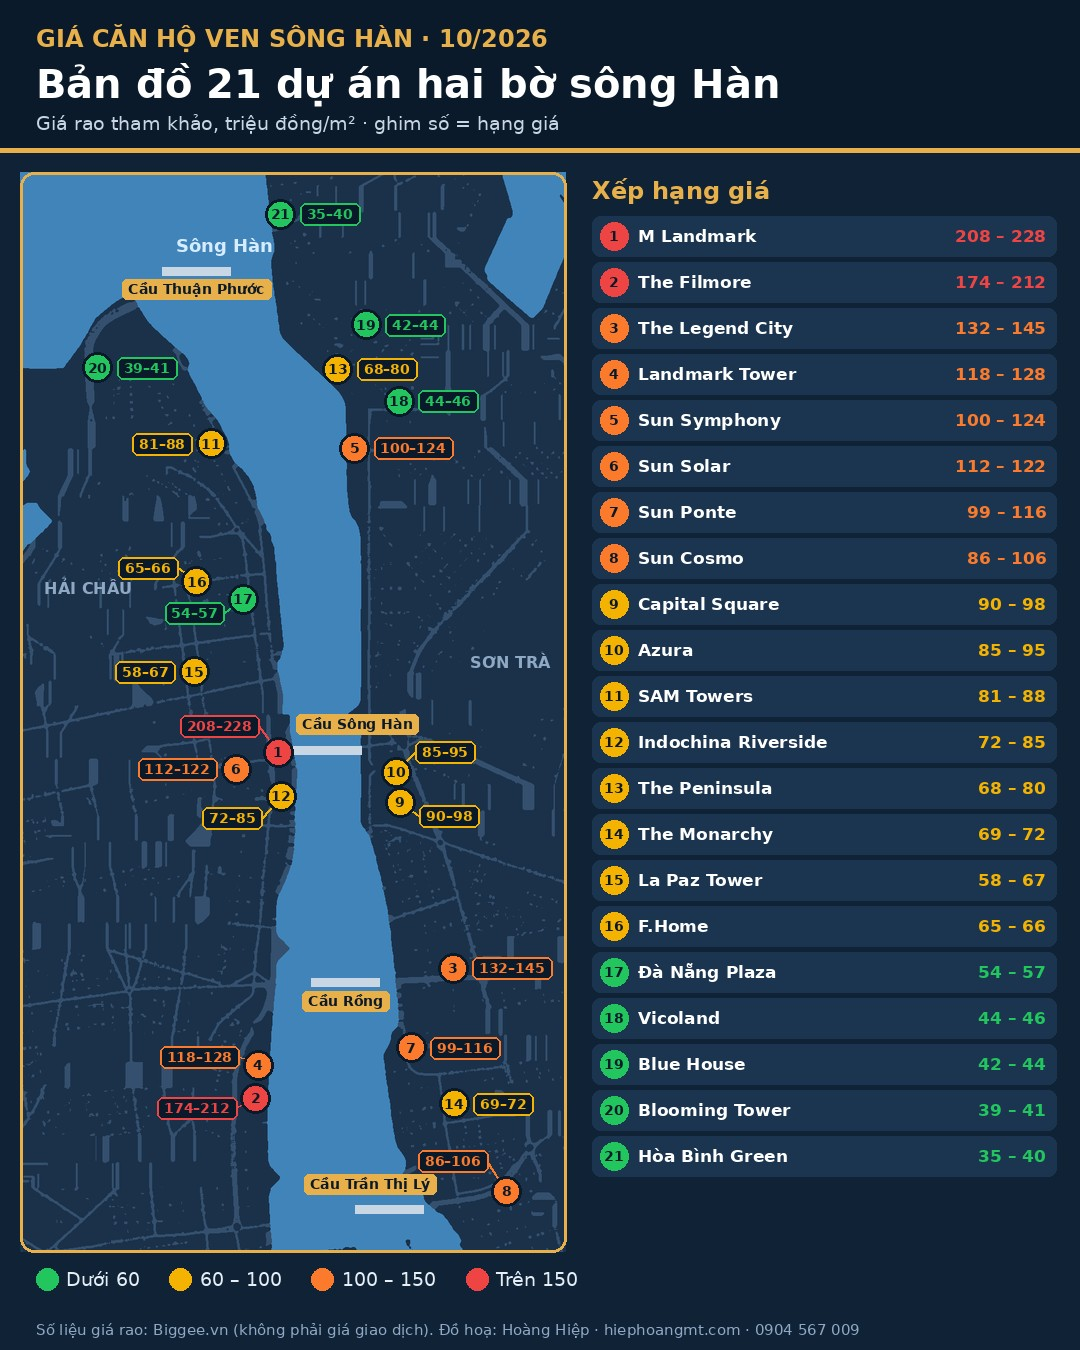
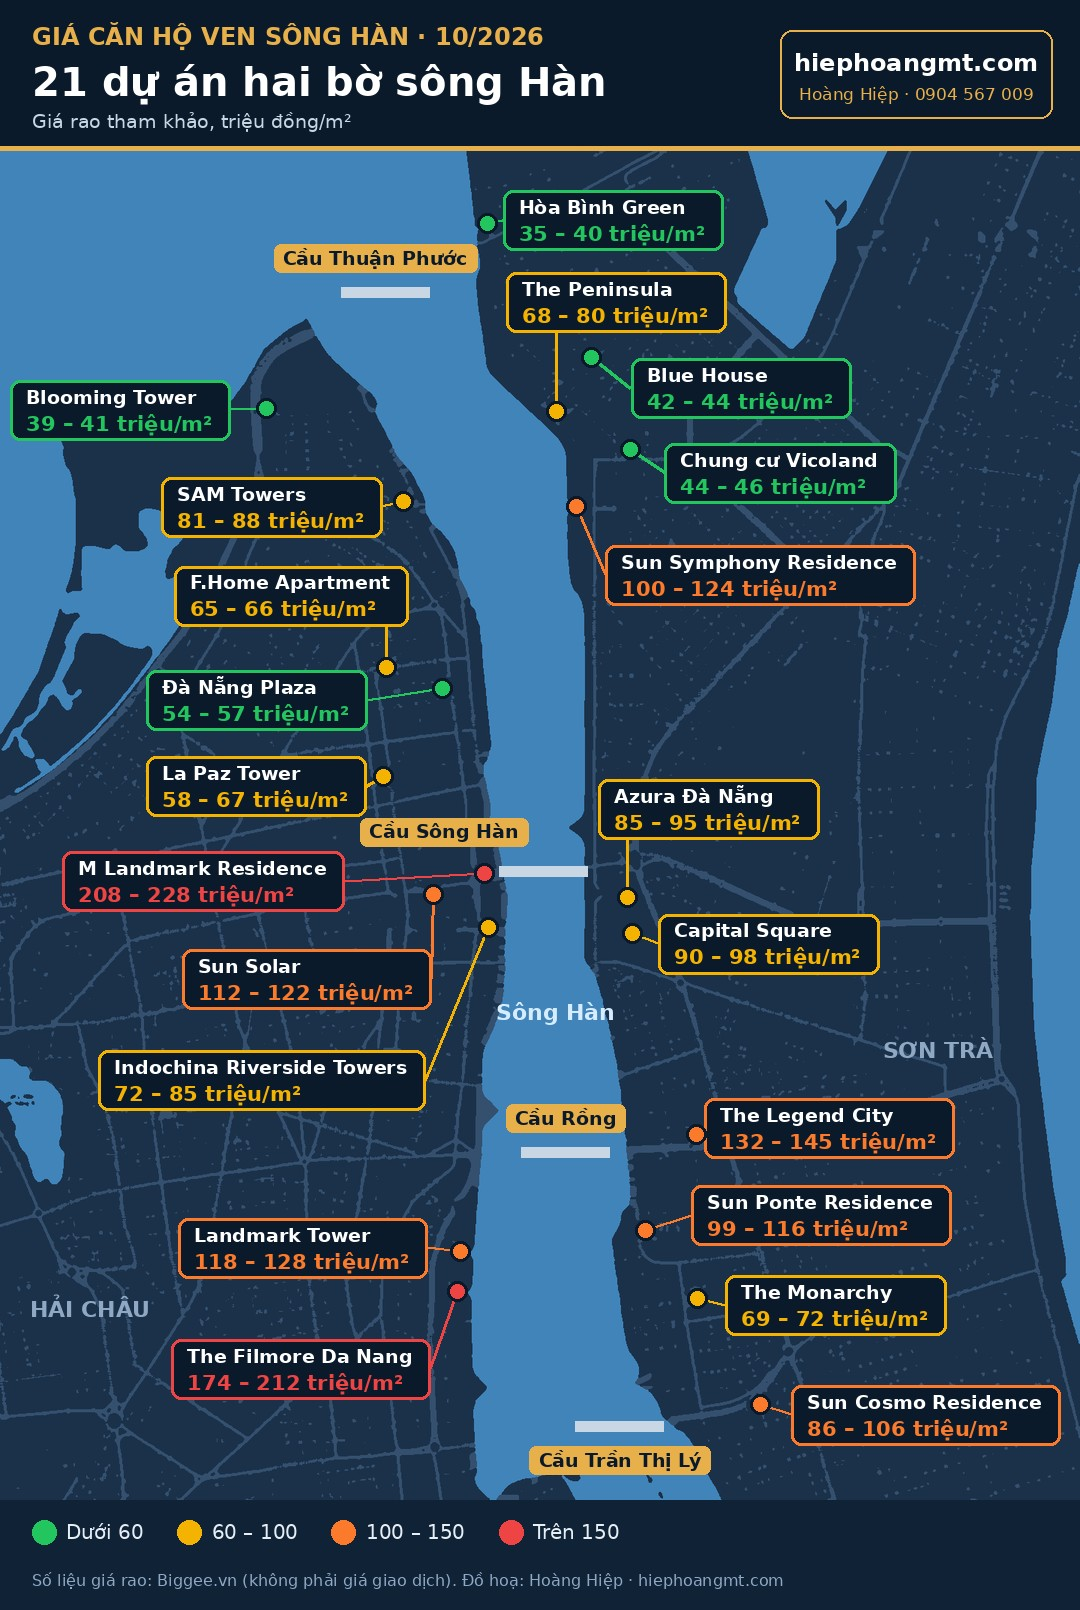
Bản đồ giá căn hộ sông Hàn kiểu ảnh mẫu: tên + giá trên bản đồ, nền navy; thay ảnh trong bài (plugin 2.20.33)
Claude-Session: https://claude.ai/code/session_011HGb6VAzLiwbq5KWLxGuh9

diff --git a/wordpress/bai-viet/gia-can-ho-song-han-ban-do.py b/wordpress/bai-viet/gia-can-ho-song-han-ban-do.py
@@ -36,75 +36,66 @@ cls = out
 PAL = np.array([(64, 132, 186), (27, 49, 74), (52, 80, 110)], np.uint8)  # nước, đất, đường – tông navy
 base = Image.fromarray(PAL[cls])
 
-# vùng cắt quanh sông Hàn
-CX0, CY0, CX1, CY1 = 230, 30, 1110, 1770
-mapimg = base.crop((CX0, CY0, CX1, CY1))
-MH = 1080; s = MH / (CY1 - CY0); MW = round((CX1 - CX0) * s)
-mapimg = mapimg.resize((MW, MH), Image.LANCZOS)
-
-P = [('Hòa Bình Green', 35, 40, 'Đ', 650, 98), ('The Peninsula', 68, 80, 'Đ', 742, 348), ('Blue House', 42, 44, 'Đ', 788, 276),
-     ('Vicoland', 44, 46, 'Đ', 841, 399), ('Sun Symphony', 100, 124, 'Đ', 769, 475), ('Azura', 85, 95, 'Đ', 836, 997),
-     ('Capital Square', 90, 98, 'Đ', 843, 1045), ('The Legend City', 132, 145, 'Đ', 928, 1313), ('Sun Ponte', 99, 116, 'Đ', 860, 1441),
-     ('The Monarchy', 69, 72, 'Đ', 930, 1531), ('Sun Cosmo', 86, 106, 'Đ', 1014, 1672),
-     ('Blooming Tower', 39, 41, 'T', 355, 345), ('SAM Towers', 81, 88, 'T', 538, 468), ('F.Home', 65, 66, 'T', 515, 690),
-     ('Đà Nẵng Plaza', 54, 57, 'T', 590, 718), ('La Paz Tower', 58, 67, 'T', 511, 835), ('M Landmark', 208, 228, 'T', 646, 965),
-     ('Sun Solar', 112, 122, 'T', 578, 992), ('Indochina Riverside', 72, 85, 'T', 651, 1036), ('Landmark Tower', 118, 128, 'T', 614, 1469),
-     ('The Filmore', 174, 212, 'T', 610, 1522)]
-P.sort(key=lambda p: -p[2])
+# Bố cục như ảnh mẫu: cả bản đồ, mỗi dự án một nhãn tên + giá, đường nối về vị trí.
 def tier(v):
     return '#22c55e' if v < 60 else '#f5b301' if v < 100 else '#fb7a2c' if v < 150 else '#ef4444'
-
-W, H = 1080, 1350
-im = Image.new('RGB', (W, H), '#0f2236'); d = ImageDraw.Draw(im)
-d.rectangle([0, 0, W, 150], fill='#0b1a2a'); d.rectangle([0, 148, W, 152], fill='#e8b04a')
-d.text((36, 24), 'GIÁ CĂN HỘ VEN SÔNG HÀN · 10/2026', font=F(24, True), fill='#e8b04a')
-d.text((36, 60), 'Bản đồ 21 dự án hai bờ sông Hàn', font=F(40, True), fill='white')
-d.text((36, 112), 'Giá rao tham khảo, triệu đồng/m² · ghim số = hạng giá', font=F(19), fill='#c9d6e3')
-MX, MY = 20, 172
-im.paste(mapimg, (MX, MY)); d.rounded_rectangle([MX, MY, MX + MW, MY + MH], 14, outline='#e8b04a', width=3)
-T = lambda x, y: (MX + (x - CX0) * s, MY + (y - CY0) * s)
-for name, x, y, ox, oy in (('Cầu Thuận Phước', 514, 190, 0, 18), ('Cầu Sông Hàn', 725, 962, 30, -26), ('Cầu Rồng', 754, 1336, 0, 18), ('Cầu Trần Thị Lý', 826, 1702, -20, -26)):
+SC = 0.75; TOP, BOT = 150, 110
+W = round(base.width * SC); MH = round(base.height * SC); H = TOP + MH + BOT
+im = Image.new('RGB', (W, H), '#0f2236'); im.paste(base.resize((W, MH), Image.LANCZOS), (0, TOP)); d = ImageDraw.Draw(im)
+T = lambda x, y: (x * SC, TOP + y * SC)
+# (tên, giá thấp, giá cao, vị trí dự án x, y, ô nhãn x0, y0, x1, y1 – toạ độ ảnh gốc 1440×1800)
+P = [('Hòa Bình Green', 35, 40, 650, 98, 690, 56, 944, 132), ('The Peninsula', 68, 80, 742, 348, 708, 165, 935, 240),
+     ('Blue House', 42, 44, 788, 276, 880, 280, 1096, 356), ('Chung cư Vicoland', 44, 46, 841, 399, 891, 393, 1189, 468),
+     ('Sun Symphony Residence', 100, 124, 769, 475, 814, 529, 1213, 604), ('Azura Đà Nẵng', 85, 95, 836, 997, 827, 842, 1062, 916),
+     ('Capital Square', 90, 98, 843, 1045, 908, 1020, 1141, 1096), ('The Legend City', 132, 145, 928, 1313, 977, 1266, 1234, 1342),
+     ('Sun Ponte Residence', 99, 116, 860, 1441, 930, 1382, 1260, 1458), ('The Monarchy', 69, 72, 930, 1531, 1001, 1503, 1227, 1578),
+     ('Sun Cosmo Residence', 86, 106, 1014, 1672, 1060, 1649, 1408, 1724),
+     ('Blooming Tower', 39, 41, 355, 345, 24, 309, 282, 384), ('SAM Towers', 81, 88, 538, 468, 254, 438, 470, 513),
+     ('F.Home Apartment', 65, 66, 515, 690, 244, 556, 532, 632), ('Đà Nẵng Plaza', 54, 57, 590, 718, 227, 696, 457, 772),
+     ('La Paz Tower', 58, 67, 511, 835, 234, 811, 449, 886), ('M Landmark Residence', 208, 228, 646, 965, 92, 937, 450, 1013),
+     ('Sun Solar', 112, 122, 578, 992, 285, 1067, 532, 1143), ('Indochina Riverside Towers', 72, 85, 651, 1036, 138, 1202, 560, 1278),
+     ('Landmark Tower', 118, 128, 614, 1469, 272, 1426, 535, 1501), ('The Filmore Da Nang', 174, 212, 610, 1522, 239, 1587, 563, 1663)]
+# cầu
+for name, x, y, ox, oy in (('Cầu Thuận Phước', 514, 190, -10, -34), ('Cầu Sông Hàn', 725, 962, -100, -40), ('Cầu Rồng', 754, 1336, 0, -34), ('Cầu Trần Thị Lý', 826, 1702, 0, 34)):
     px, py = T(x, y)
-    d.rectangle([px - 34, py - 4, px + 34, py + 4], fill='#c9d6e3')
-    w = d.textlength(name, font=F(14, True)); lx, ly2 = px + ox, py + oy
-    d.rounded_rectangle([lx - w / 2 - 6, ly2 - 10, lx + w / 2 + 6, ly2 + 10], 5, fill='#e8b04a')
-    d.text((lx, ly2), name, font=F(14, True), fill='#0b1a2a', anchor='mm')
-px, py = T(560, 150); d.text((px, py), 'Sông Hàn', font=F(18, True), fill='#d6ecff', anchor='mm')
-px, py = T(340, 700); d.text((px, py), 'HẢI CHÂU', font=F(16, True), fill='#8fa9c4', anchor='mm')
-px, py = T(1020, 820); d.text((px, py), 'SƠN TRÀ', font=F(16, True), fill='#8fa9c4', anchor='mm')
-# nhãn giá cạnh ghim: bờ Tây ghi bên trái, bờ Đông bên phải; vài ghim sát nhau dời lên / xuống
-NUDGE = {'M Landmark': (0, -26), 'Sun Solar': (0, 0), 'Indochina Riverside': (0, 22), 'Azura': (0, -20), 'Capital Square': (0, 14),
-         'F.Home': (0, -14), 'Đà Nẵng Plaza': (0, 14), 'Landmark Tower': (0, -8), 'The Filmore': (0, 10), 'Sun Cosmo': (0, -30)}
-for i, (name, a, b, bank, x, y) in enumerate(P, 1):
+    d.rectangle([px - 44, py - 5, px + 44, py + 5], fill='#c9d6e3')
+    f = F(19, True); w = d.textlength(name, font=f); lx, ly = px + ox, py + oy
+    d.rounded_rectangle([lx - w / 2 - 9, ly - 14, lx + w / 2 + 9, ly + 14], 7, fill='#e8b04a')
+    d.text((lx, ly), name, font=f, fill='#0b1a2a', anchor='mm')
+# nhãn dự án: thẻ navy viền màu giá, đường nối về chấm vị trí
+cards = []
+for name, a, b, x, y, x0, y0, x1, y1 in P:
+    fn, fp = F(19, True), F(21, True)
+    price = f'{a} – {b} triệu/m²'
+    w = max(d.textlength(name, font=fn), d.textlength(price, font=fp)) + 34
+    cx, cy = (x0 + x1) / 2 * SC, TOP + (y0 + y1) / 2 * SC
+    bx0 = min(max(cx - w / 2, 10), W - 10 - w); by0 = cy - 30
+    cards.append((name, price, a, b, x, y, bx0, by0, bx0 + w, by0 + 60))
+for name, price, a, b, x, y, bx0, by0, bx1, by1 in cards:
     px, py = T(x, y)
-    txt = f'{a}–{b}'; f = F(14, True); w = d.textlength(txt, font=f) + 14
-    dx, dy = NUDGE.get(name, (0, 0)); ly2 = py + dy
-    left = (bank == 'T') != (name in ('Blooming Tower', 'Sun Cosmo'))  # 2 ghim sát mép khung: đổi bên
-    if left:
-        lx1 = px - 19; lx0 = lx1 - w
-    else:
-        lx0 = px + 19; lx1 = lx0 + w
-    if dy:
-        d.line([px, py, (lx1 if left else lx0), ly2], fill=tier(b), width=2)
-    d.rounded_rectangle([lx0, ly2 - 11, lx1, ly2 + 11], 6, fill='#0b1a2a', outline=tier(b), width=2)
-    d.text(((lx0 + lx1) / 2, ly2), txt, font=f, fill=tier(b), anchor='mm')
-for i, (name, a, b, bank, x, y) in enumerate(P, 1):
+    ex = min(max(px, bx0), bx1); ey = by0 + 30 if not (bx0 <= px <= bx1) else (by0 if py < by0 else by1)
+    d.line([px, py, ex, ey], fill=tier(b), width=3)
+for name, price, a, b, x, y, bx0, by0, bx1, by1 in cards:
+    d.rounded_rectangle([bx0, by0, bx1, by1], 10, fill='#0b1a2a', outline=tier(b), width=3)
+    d.text((bx0 + 16, by0 + 17), name, font=F(19, True), fill='white', anchor='lm')
+    d.text((bx0 + 16, by0 + 43), price, font=F(21, True), fill=tier(b), anchor='lm')
+for name, price, a, b, x, y, *_ in cards:
     px, py = T(x, y)
-    d.ellipse([px - 15, py - 15, px + 15, py + 15], fill=tier(b), outline='#0b1a2a', width=3)
-    d.text((px, py), str(i), font=F(14, True), fill='#0b1a2a', anchor='mm')
-# bảng xếp hạng
-TX = MX + MW + 26; ty = 176
-d.text((TX, ty), 'Xếp hạng giá', font=F(24, True), fill='#e8b04a'); ty += 40
-for i, (name, a, b, bank, x, y) in enumerate(P, 1):
-    yy = ty + (i - 1) * 46
-    d.rounded_rectangle([TX, yy, W - 24, yy + 40], 8, fill='#1b3550')
-    d.ellipse([TX + 8, yy + 6, TX + 36, yy + 34], fill=tier(b)); d.text((TX + 22, yy + 20), str(i), font=F(14, True), fill='#0b1a2a', anchor='mm')
-    d.text((TX + 46, yy + 20), name, font=F(17, True), fill='white', anchor='lm')
-    d.text((W - 34, yy + 20), f'{a} – {b}', font=F(17, True), fill=tier(b), anchor='rm')
-ly = MY + MH + 16
-x = 36
+    d.ellipse([px - 10, py - 10, px + 10, py + 10], fill=tier(b), outline='#0b1a2a', width=3)
+px, py = T(120, 1545); d.text((px, py), 'HẢI CHÂU', font=F(22, True), fill='#8fa9c4', anchor='mm')
+px, py = T(1250, 1200); d.text((px, py), 'SƠN TRÀ', font=F(22, True), fill='#8fa9c4', anchor='mm')
+px, py = T(740, 1150); d.text((px, py), 'Sông Hàn', font=F(22, True), fill='#d6ecff', anchor='mm')
+# tiêu đề, logo chữ, chú thích, nguồn
+d.rectangle([0, 0, W, TOP], fill='#0b1a2a'); d.rectangle([0, TOP - 4, W, TOP], fill='#e8b04a')
+d.text((32, 22), 'GIÁ CĂN HỘ VEN SÔNG HÀN · 10/2026', font=F(24, True), fill='#e8b04a')
+d.text((32, 58), '21 dự án hai bờ sông Hàn', font=F(40, True), fill='white')
+d.text((32, 110), 'Giá rao tham khảo, triệu đồng/m²', font=F(19), fill='#c9d6e3')
+d.rounded_rectangle([W - 300, 30, W - 28, 118], 12, outline='#e8b04a', width=2)
+d.text((W - 164, 62), 'hiephoangmt.com', font=F(24, True), fill='white', anchor='mm')
+d.text((W - 164, 94), 'Hoàng Hiệp · 0904 567 009', font=F(17), fill='#e8b04a', anchor='mm')
+ly = TOP + MH + 20; x = 32
 for lab, v in (('Dưới 60', 50), ('60 – 100', 80), ('100 – 150', 120), ('Trên 150', 200)):
-    d.ellipse([x, ly, x + 22, ly + 22], fill=tier(v)); d.text((x + 30, ly + 11), lab, font=F(19), fill='#e6eef6', anchor='lm'); x += 30 + d.textlength(lab, font=F(19)) + 30
-d.text((36, H - 20), 'Số liệu giá rao: Biggee.vn (không phải giá giao dịch). Đồ hoạ: Hoàng Hiệp · hiephoangmt.com · 0904 567 009', font=F(15), fill='#8fa9c4', anchor='lm')
+    d.ellipse([x, ly, x + 24, ly + 24], fill=tier(v)); d.text((x + 34, ly + 12), lab, font=F(20), fill='#e6eef6', anchor='lm'); x += 34 + d.textlength(lab, font=F(20)) + 34
+d.text((32, H - 30), 'Số liệu giá rao: Biggee.vn (không phải giá giao dịch). Đồ hoạ: Hoàng Hiệp · hiephoangmt.com', font=F(16), fill='#8fa9c4', anchor='lm')
 out = os.path.join(os.path.dirname(os.path.abspath(__file__)), 'gia-can-ho-song-han-10-2026-zalo.jpg')
-im.save(out, quality=90); print(out, MW)
+im.save(out, quality=90); print(out, im.size)

diff --git a/wordpress/wp-content/mu-plugins/hh-crm/data-bai-viet-tuan-05-06.php b/wordpress/wp-content/mu-plugins/hh-crm/data-bai-viet-tuan-05-06.php
@@ -86,7 +86,7 @@ HTML
 
 	$posts[] = array(
 		'slug'     => 'can-ho-view-song-han-du-an-va-gia',
-		'rev'      => '2026-10-12', // Thêm bảng giá 21 dự án + bản đồ (bản cũ còn trong Bản sửa đổi).
+		'rev'      => '2026-10-12b', // Thêm bảng giá 21 dự án + bản đồ (bản cũ còn trong Bản sửa đổi).
 		'repub'    => true,
 		'title'    => 'Căn hộ view sông Hàn: bảng giá 21 dự án hai bờ tháng 10/2026',
 		'excerpt'  => 'Căn hộ view sông Hàn tháng 10/2026: bảng giá rao 21 dự án hai bờ Sơn Trà, Hải Châu từ 35 – 40 đến 208 – 228 triệu/m², bản đồ vị trí, giá theo loại căn và tình trạng bàn giao.',
@@ -100,7 +100,7 @@ HTML
 <p>Căn hộ view sông Hàn hiện có ở cả hai bờ: bờ Đông (Sơn Trà, Ngũ Hành Sơn) với các dự án của Sun Group, Peninsula, Capital Square, The Legend và bờ Tây (Hải Châu) với The Filmore, Danang Landmark, M Riverside, The Meridian. Giá rao tháng 10/2026 của 21 dự án hai bờ dao động khoảng 35 – 228 triệu/m², phổ biến 65 – 125 triệu/m² tùy dự án, tầng và hướng nhìn. Thông tin được Hoàng Hiệp cập nhật tháng 10/2026.</p>
 
 <h2>Bảng giá căn hộ view sông Hàn 10/2026: 21 dự án hai bờ</h2>
-<figure><img src="/wp-content/plugins/hoang-hiep-crm/hh-crm/img/tin-tuc/gia-can-ho-song-han-10-2026-ban-do.jpg" alt="Bản đồ giá căn hộ view sông Hàn 10/2026: 21 dự án hai bờ sông Hàn Đà Nẵng" width="1080" height="1350" loading="lazy"><figcaption>Bản đồ vị trí và giá rao 21 dự án căn hộ hai bờ sông Hàn. Số liệu giá rao: Biggee.vn; đồ hoạ: hiephoangmt.com.</figcaption></figure>
+<figure><img src="/wp-content/plugins/hoang-hiep-crm/hh-crm/img/tin-tuc/gia-can-ho-song-han-10-2026-ban-do.jpg" alt="Bản đồ giá căn hộ view sông Hàn 10/2026: 21 dự án hai bờ sông Hàn Đà Nẵng" width="1080" height="1610" loading="lazy"><figcaption>Bản đồ vị trí và giá rao 21 dự án căn hộ hai bờ sông Hàn. Số liệu giá rao: Biggee.vn; đồ hoạ: hiephoangmt.com.</figcaption></figure>
 <p>Giá căn hộ view sông Hàn tháng 10/2026 chênh nhau tới khoảng 5 lần: từ 35 – 40 triệu/m² ở các chung cư cũ phía cầu Thuận Phước đến 208 – 228 triệu/m² ở dự án hạng sang sát cầu Sông Hàn. Bảng xếp hạng theo giá rao trung bình mỗi m² (cao → thấp):</p>
 <table>
 <thead><tr><th>#</th><th>Dự án</th><th>Bờ sông</th><th>Giá rao</th></tr></thead>

diff --git a/wordpress/packaging/hoang-hiep-crm.php b/wordpress/packaging/hoang-hiep-crm.php
@@ -2,7 +2,7 @@
 /**
  * Plugin Name: Hoàng Hiệp CRM
  * Description: Dự án, nhà đất mua bán / cho thuê, khách hàng tiềm năng và dữ liệu dự án Đà Nẵng cho hiephoangmt.com. Dùng kèm giao diện Hoàng Hiệp.
- * Version: 2.20.32
+ * Version: 2.20.33
  * Author: Hoàng Hiệp
  * Requires PHP: 7.4
  */
@@ -14,7 +14,7 @@ if ( defined( 'HH_CRM_VERSION' ) ) {
 	return;
 }
 
-define( 'HH_CRM_VERSION', '2.20.32' );
+define( 'HH_CRM_VERSION', '2.20.33' );
 define( 'HH_CRM_DIR', __DIR__ . '/hh-crm/' );
 define( 'HH_CRM_URL', plugin_dir_url( __FILE__ ) . 'hh-crm/' );
 

diff --git a/wordpress/wp-content/mu-plugins/hh-crm.php b/wordpress/wp-content/mu-plugins/hh-crm.php
@@ -2,7 +2,7 @@
 /**
  * Plugin Name: Hoàng Hiệp CRM
  * Description: Dự án, nhà đất mua bán / cho thuê và khách hàng tiềm năng cho hiephoangmt.com.
- * Version: 2.20.32
+ * Version: 2.20.33
  * Author: Hoàng Hiệp
  */
 
@@ -13,7 +13,7 @@ if ( defined( 'HH_CRM_VERSION' ) ) {
 	return;
 }
 
-define( 'HH_CRM_VERSION', '2.20.32' );
+define( 'HH_CRM_VERSION', '2.20.33' );
 define( 'HH_CRM_DIR', __DIR__ . '/hh-crm/' );
 define( 'HH_CRM_URL', WPMU_PLUGIN_URL . '/hh-crm/' );
 

diff --git a/wordpress/GHI-CHU-CAP-NHAT.md b/wordpress/GHI-CHU-CAP-NHAT.md
@@ -1,6 +1,6 @@
 # Gói cập nhật hiephoangmt.com – 12/10/2026
 
-**File cài:** `hoang-hiep-tron-goi.zip` (giao diện Hoàng Hiệp **2.15.10** + plugin Hoàng Hiệp CRM **2.20.32**) · cập nhật nhanh bằng điện thoại: `cap-nhat-nhanh.zip`
+**File cài:** `hoang-hiep-tron-goi.zip` (giao diện Hoàng Hiệp **2.15.10** + plugin Hoàng Hiệp CRM **2.20.33**) · cập nhật nhanh bằng điện thoại: `cap-nhat-nhanh.zip`
 **Xem trước:** https://claude.ai/artifact/ACKuFhbbb8yj5VoU8Ty9X7 (riêng tư – bấm Chia sẻ nếu muốn gửi người khác)
 
 ## Cài đặt từng bước (khoảng 10 phút)
@@ -41,7 +41,9 @@ Kẹt ở bước nào: chụp màn hình gửi lại.
 
 Ô / bài anh đã tự sửa trong quản trị **không bị ghi đè** khi nhập dữ liệu.
 
-## Có gì mới – plugin 2.20.32: bảng giá 21 dự án căn hộ view sông Hàn
+## Có gì mới – plugin 2.20.33, 2.20.32: bảng giá 21 dự án căn hộ view sông Hàn
+
+- 2.20.33: bản đồ trong bài ghi tên + giá từng dự án ngay trên bản đồ (khung nhãn có đường nối về vị trí), nền navy.
 
 - Bài "Căn hộ view sông Hàn" thêm mục bảng giá rao 21 dự án hai bờ (xếp hạng cao → thấp, link sang 9 trang dự án có trên web) và bản đồ vị trí – giá (nền navy). Tiêu đề, mô tả, hỏi đáp cập nhật theo; bài lên đầu Tin tức. Số liệu giá rao: Biggee.vn.
 
